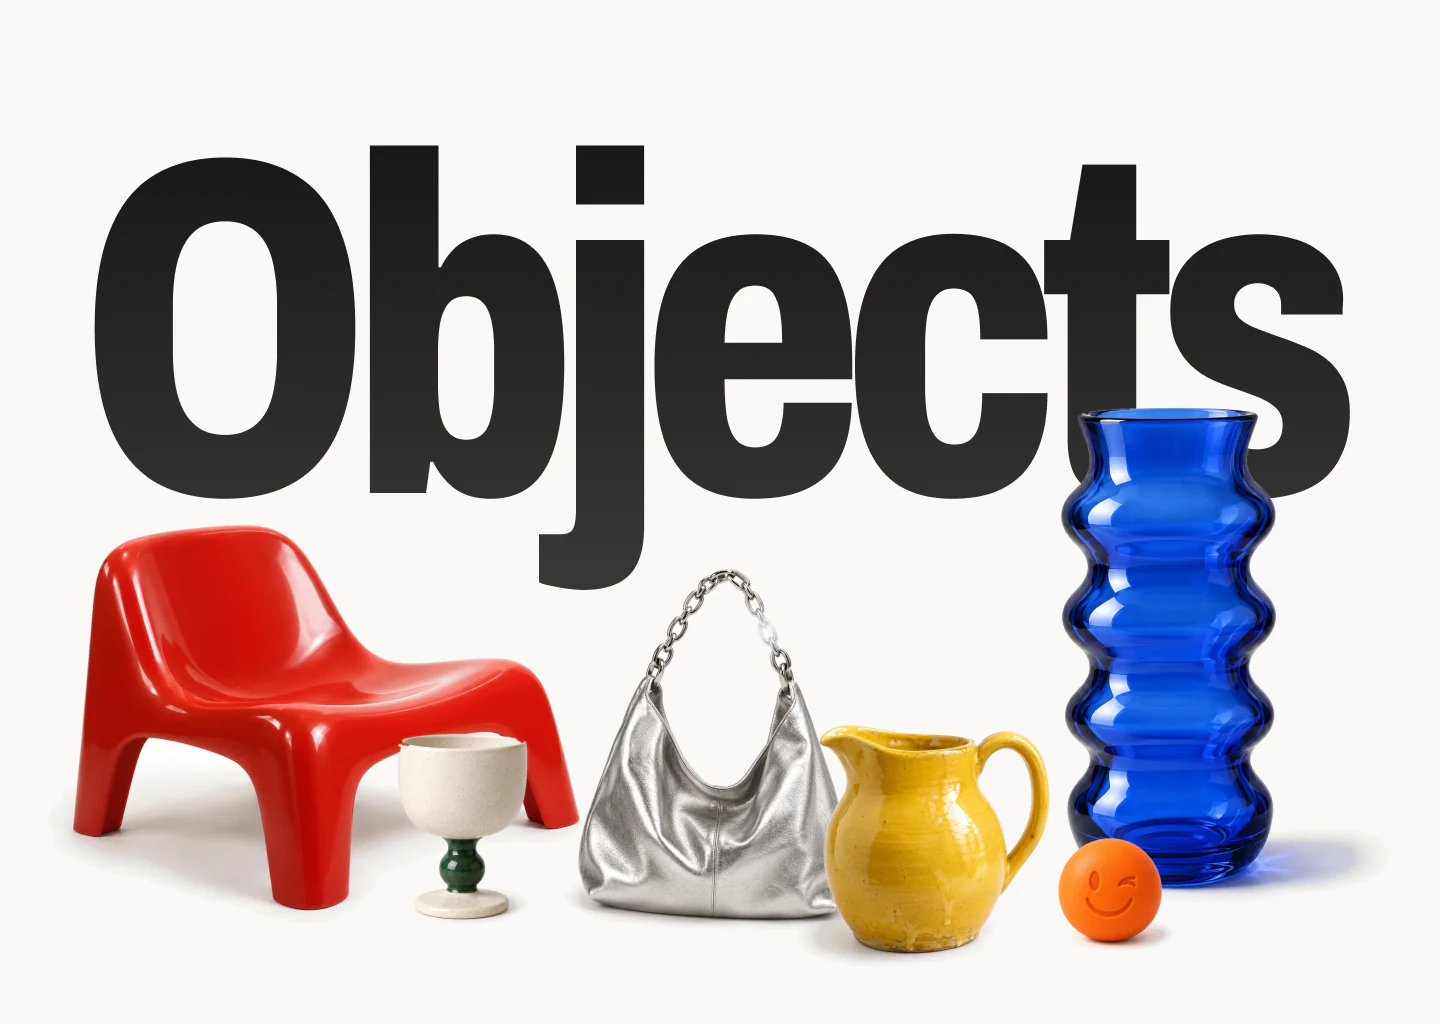
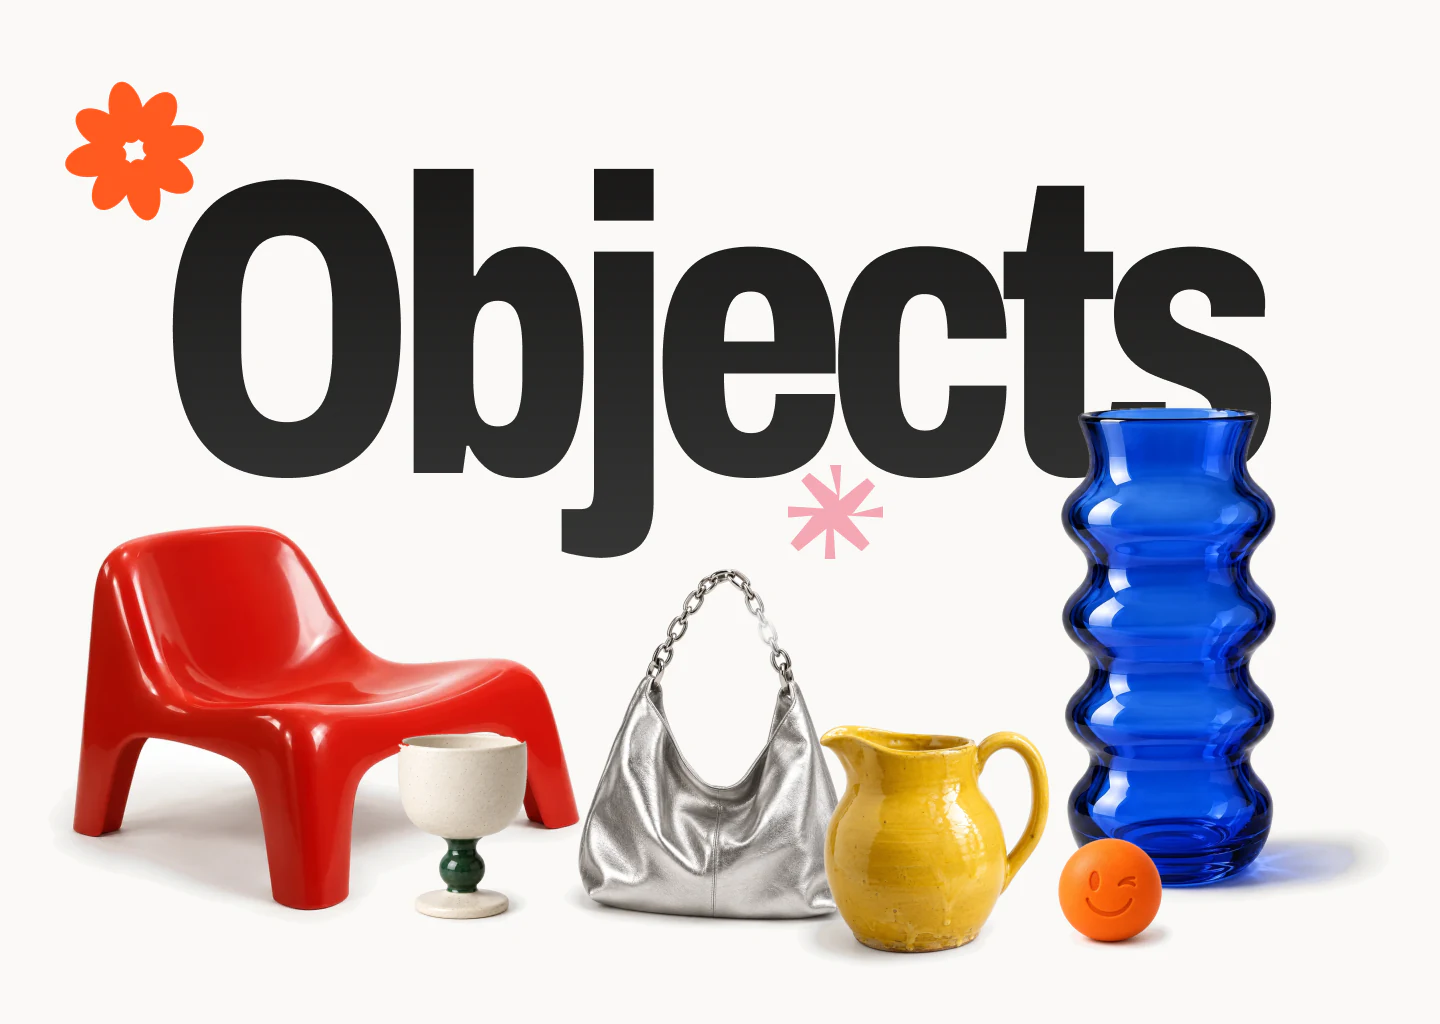
Update the Objects card cover with the new graphic

Changed region(s): [[0.0312, 0.0625, 0.9375, 0.5938]]

diff --git a/index.html b/index.html
@@ -111,7 +111,7 @@
         </div>
       </a>
       <a class="work-card" href="#work/objects">
-        <div class="work-card__media work-card__media--short"><img src="assets/work/objects-cover.webp" alt="The word “Objects” above a red lounge chair, a ceramic cup, a silver bag, a yellow pitcher, a blue glass vase and an orange smiley ball" loading="lazy"></div>
+        <div class="work-card__media work-card__media--short"><img src="assets/work/objects-cover.webp?v=2" alt="The word “Objects” above a red lounge chair, a ceramic cup, a silver bag, a yellow pitcher, a blue glass vase and an orange smiley ball" loading="lazy"></div>
         <div class="work-card__meta">
           <h3 class="work-card__title">Ordinary things deserve an uncommon home</h3>
           <ul class="tags"><li class="tag">E-commerce</li><li class="tag">Art direction</li></ul>

diff --git a/works.html b/works.html
@@ -97,7 +97,7 @@
         </div>
       </a>
       <a class="work-card" href="#work/objects">
-        <div class="work-card__media work-card__media--short"><img src="assets/work/objects-cover.webp" alt="The word “Objects” above a red lounge chair, a ceramic cup, a silver bag, a yellow pitcher, a blue glass vase and an orange smiley ball" loading="lazy"></div>
+        <div class="work-card__media work-card__media--short"><img src="assets/work/objects-cover.webp?v=2" alt="The word “Objects” above a red lounge chair, a ceramic cup, a silver bag, a yellow pitcher, a blue glass vase and an orange smiley ball" loading="lazy"></div>
         <div class="work-card__meta">
           <h3 class="work-card__title">Ordinary things deserve an uncommon home</h3>
           <ul class="tags"><li class="tag">E-commerce</li><li class="tag">Art direction</li></ul>
